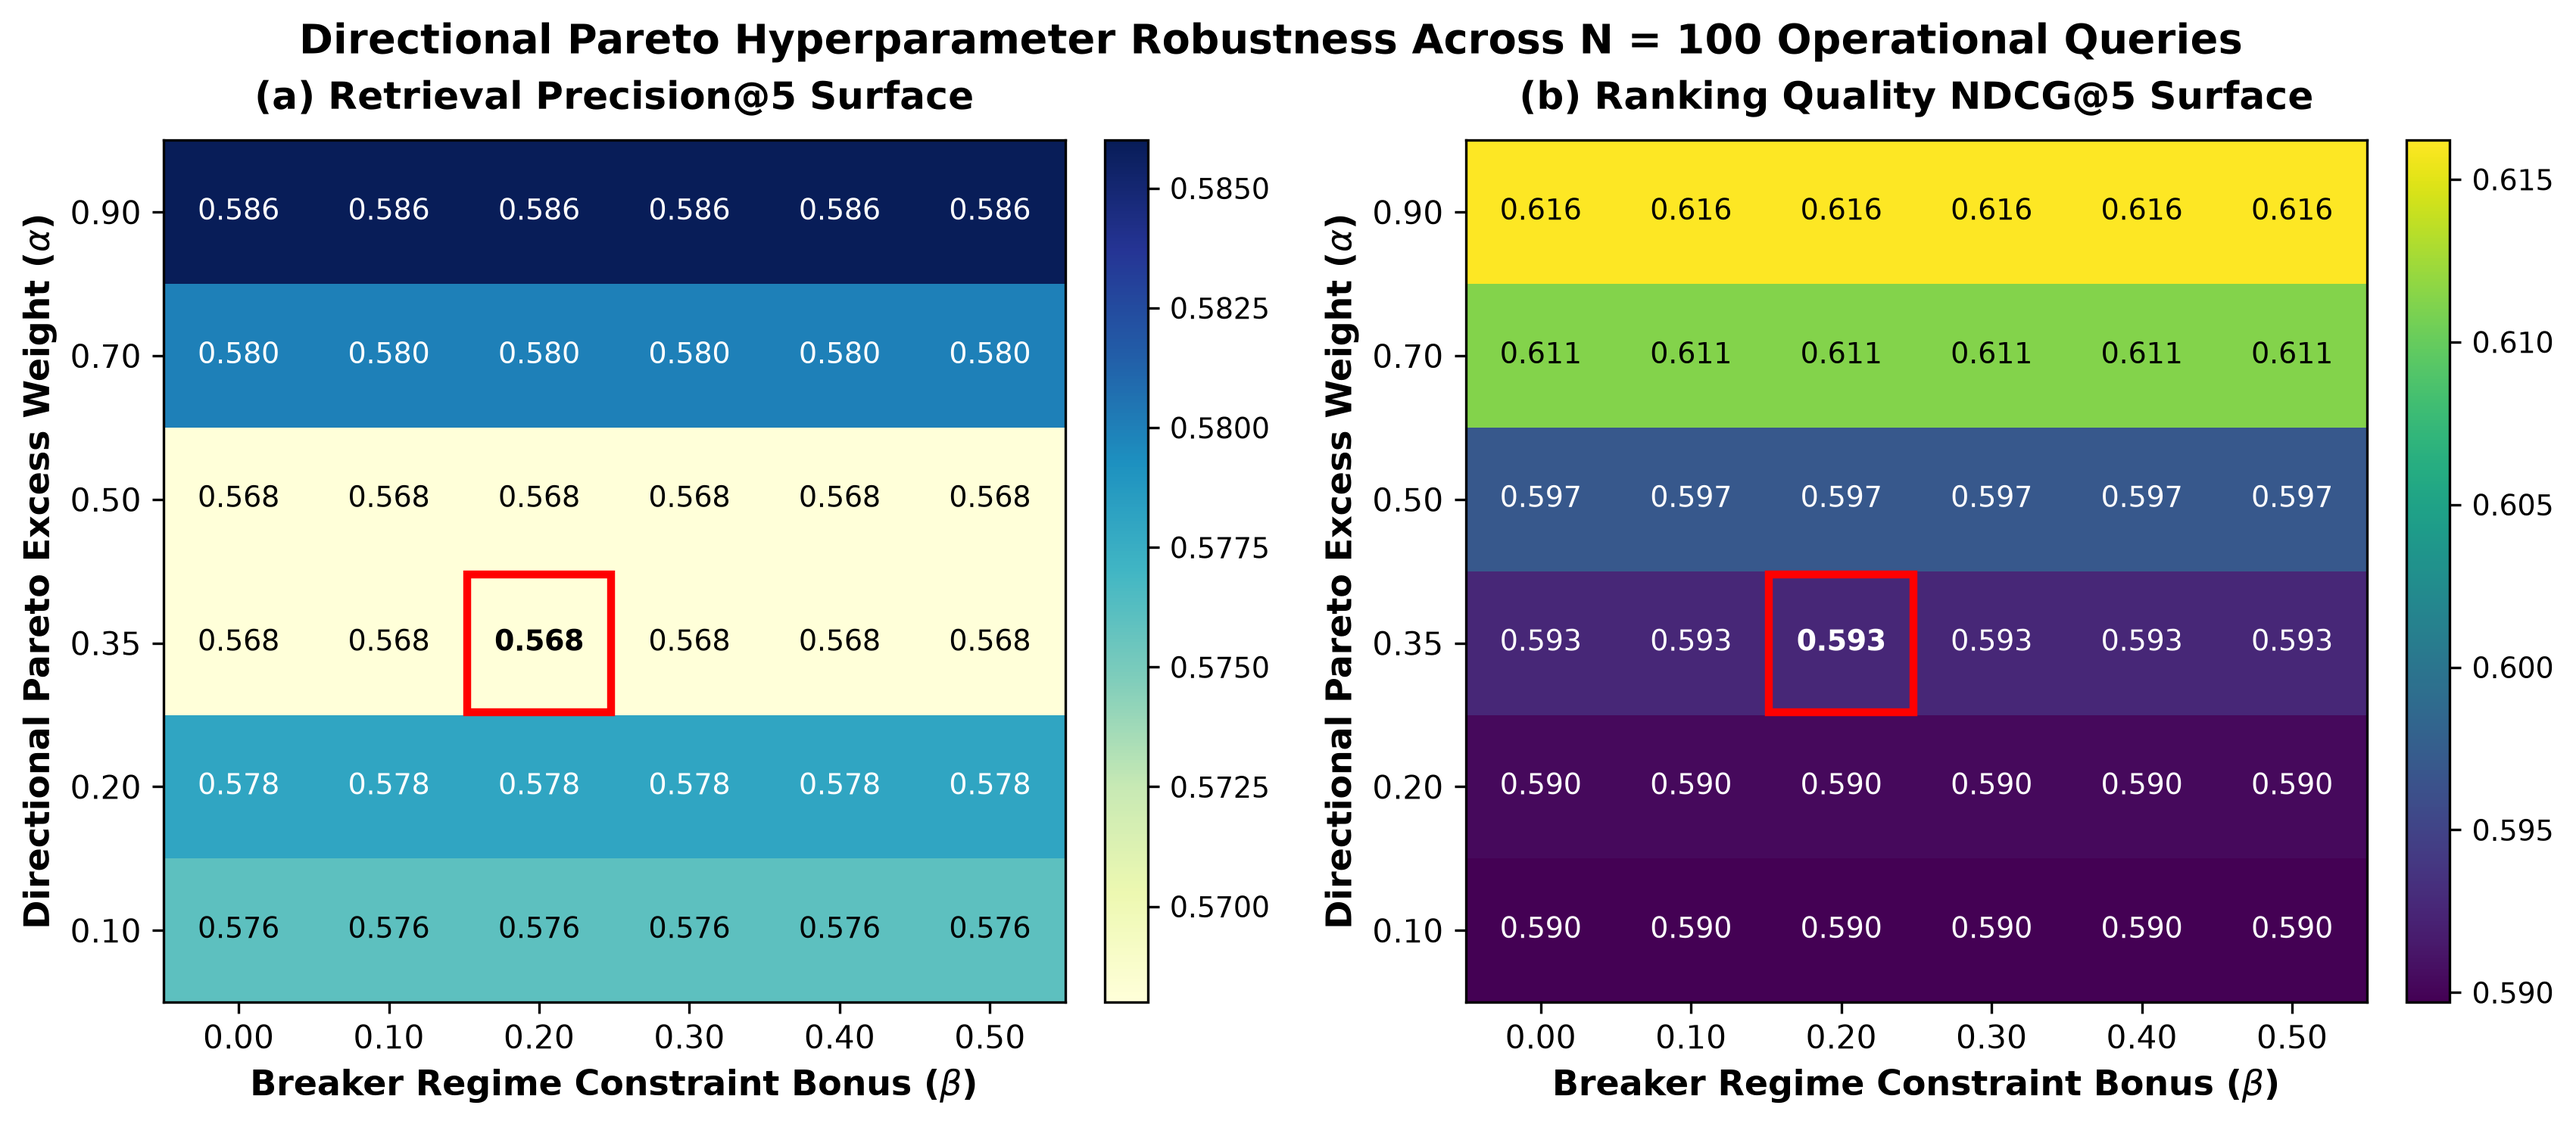
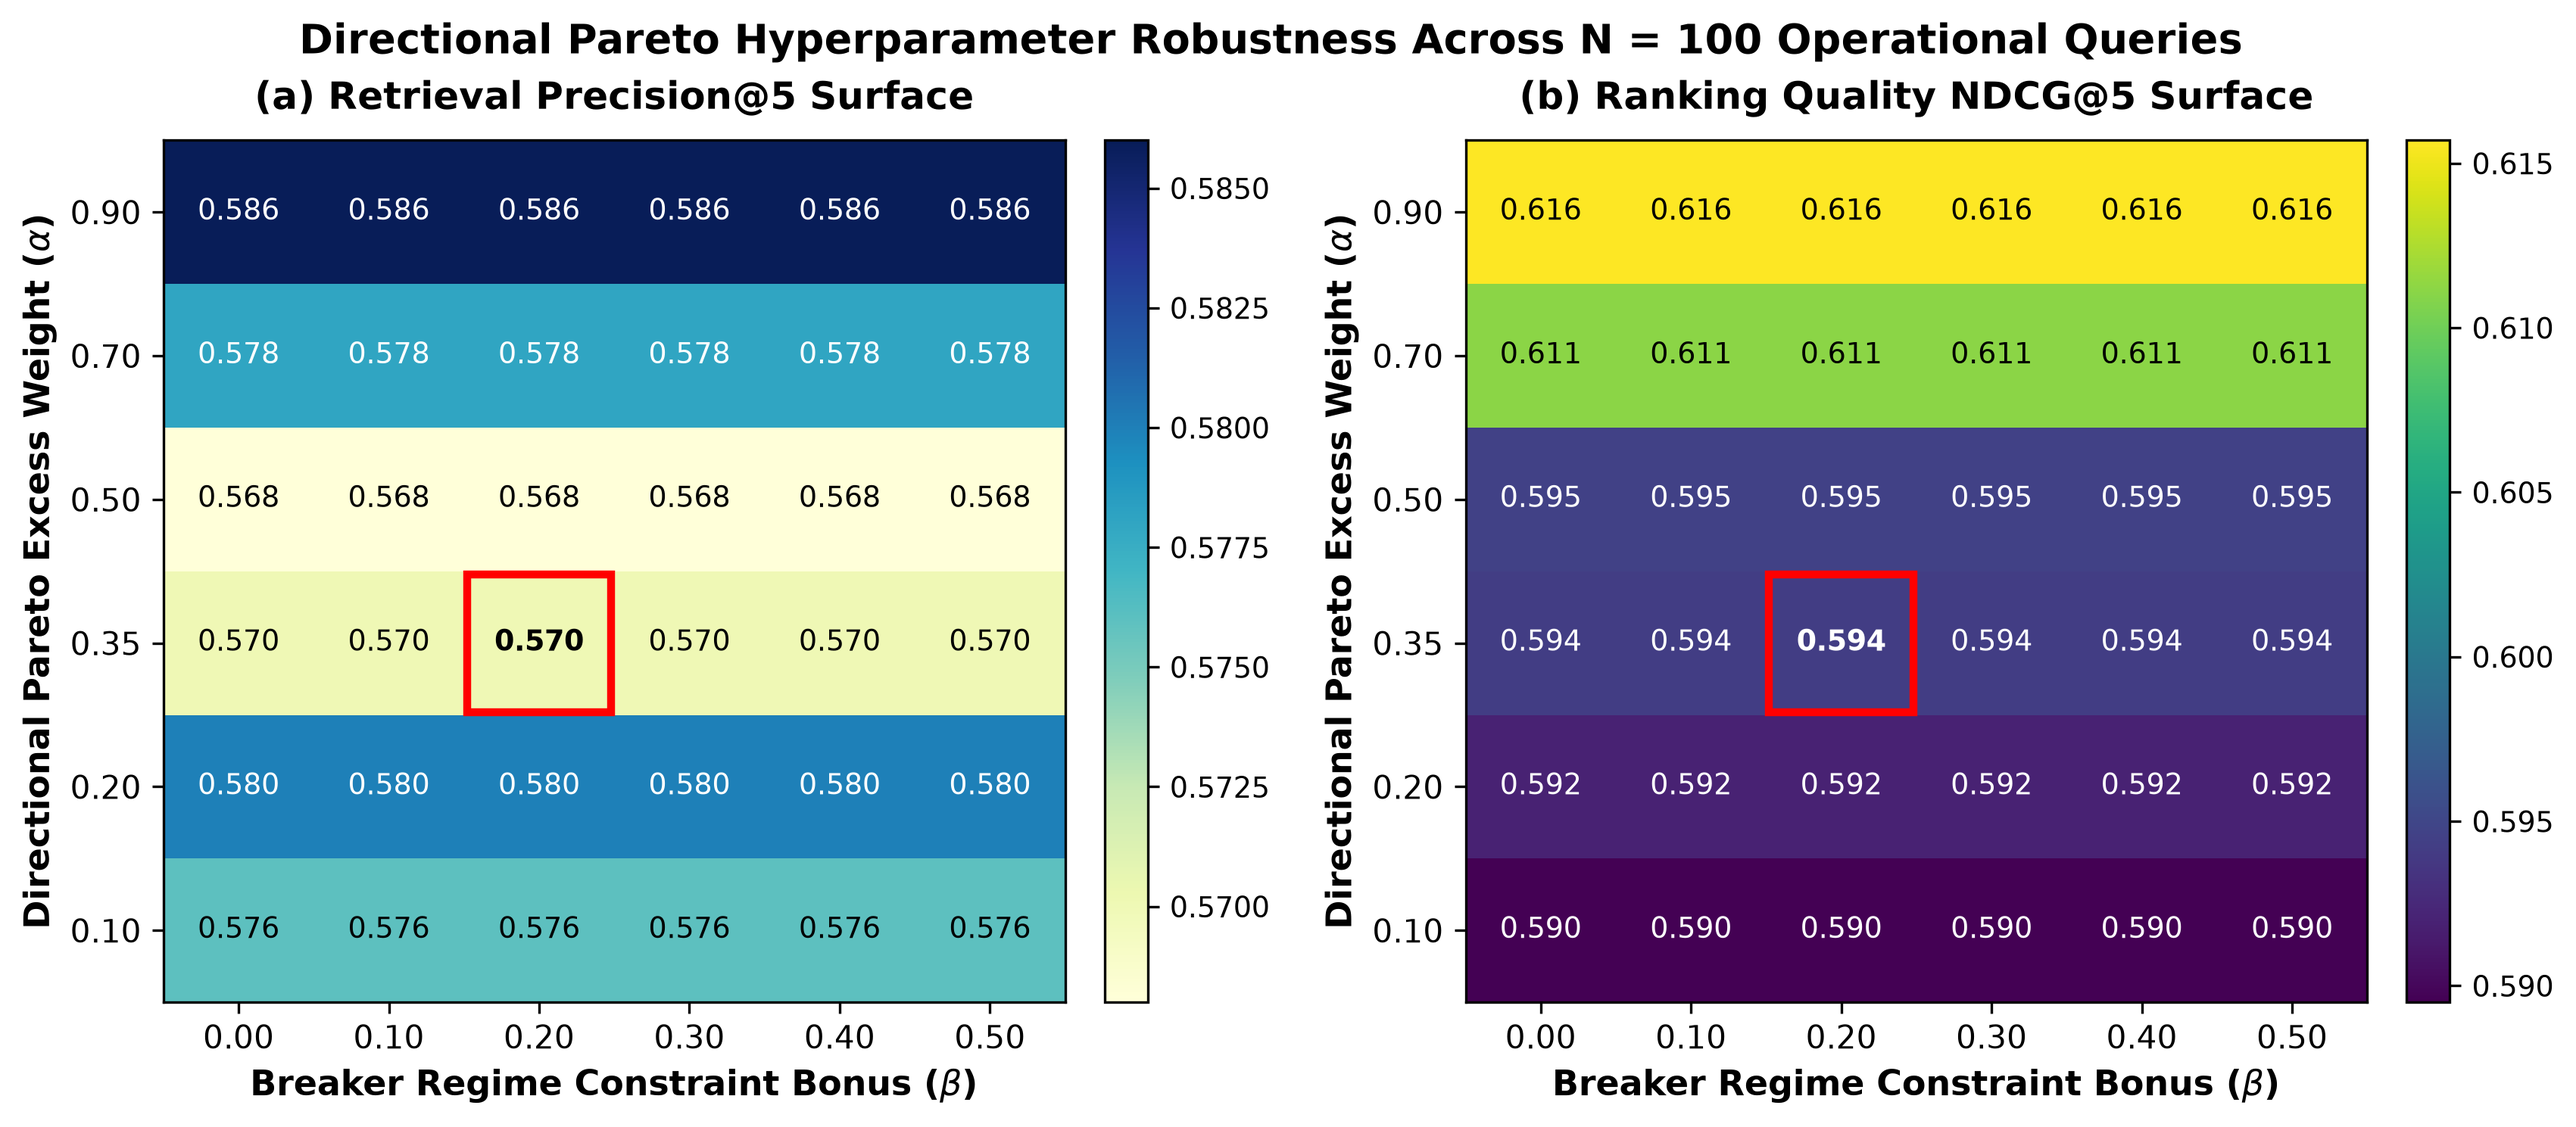
chore(benchmarks): recompute 2D sensitivity grid, precision curves, and master tables with saturating tanh Pareto ranking

diff --git a/scripts/generate_benchmark_precision_figure.py b/scripts/generate_benchmark_precision_figure.py
@@ -25,8 +25,10 @@ def generate_figure_4():
     # - Pure Physics: Sage Green (#81a554)
     # - Raw-Data LLM: Lilac (#8b7cbf)
     # - Rule-Based SQL: Light Orange (#f89c25)
+    # - Google Dense Embeddings: Slate Blue (#4338ca)
+    # - BM25 Lexical: Dark Gray (#64748b)
     palette = {
-        "Proposed: Hybrid Cascade Physics-RAG": {
+        "Proposed: Hybrid Cascade": {
             "label": "Proposed: Hybrid Cascade",
             "color": "#f4633a",
             "marker": "o",
@@ -35,7 +37,7 @@ def generate_figure_4():
             "linestyle": "-",
             "zorder": 6,
         },
-        "Baseline 3: Pure Physics-RAG": {
+        "Baseline 3: Pure Physics": {
             "label": "Baseline 3: Pure Physics",
             "color": "#81a554",
             "marker": "^",
@@ -44,7 +46,7 @@ def generate_figure_4():
             "linestyle": "--",
             "zorder": 5,
         },
-        "Baseline 1: Raw-Data LLM-RAG": {
+        "Baseline 1: Raw LLM": {
             "label": "Baseline 1: Raw LLM",
             "color": "#8b7cbf",
             "marker": "D",
@@ -64,6 +66,14 @@ def generate_figure_4():
         },
     }
 
+    arch_map = {
+        "Proposed: Hybrid Cascade Physics-RAG": "Proposed: Hybrid Cascade",
+        "Proposed: Two-Tier Hybrid Cascade": "Proposed: Hybrid Cascade",
+        "Baseline 3: Pure Physics-RAG": "Baseline 3: Pure Physics",
+        "Baseline 1: Raw-Data LLM-RAG": "Baseline 1: Raw LLM",
+        "Baseline 2: Rule-Based SQL": "Baseline 2: Rule-Based SQL",
+    }
+
     # Setup publication typography
     plt.rcParams["font.family"] = "sans-serif"
     plt.rcParams["font.sans-serif"] = ["DejaVu Sans", "Arial", "Helvetica"]
@@ -74,11 +84,21 @@ def generate_figure_4():
     # Plot lines
     curves = {}
     for _, row in df.iterrows():
-        arch = row["Architecture"]
+        raw_arch = row["Architecture"]
+        arch = arch_map.get(raw_arch, raw_arch)
         cfg = palette.get(arch)
         if not cfg:
             continue
-        p_curve = [row[f"P@{k}"] for k in k_vals]
+        p_curve = []
+        for k in k_vals:
+            val = None
+            for col in [f"Precision@{k}", f"P@{k}"]:
+                if col in row:
+                    val = float(row[col])
+                    break
+            if val is None:
+                raise KeyError(f"Could not find Precision@{k} or P@{k} in columns: {list(row.index)}")
+            p_curve.append(val)
         curves[arch] = p_curve
         ax.plot(
             k_vals,
